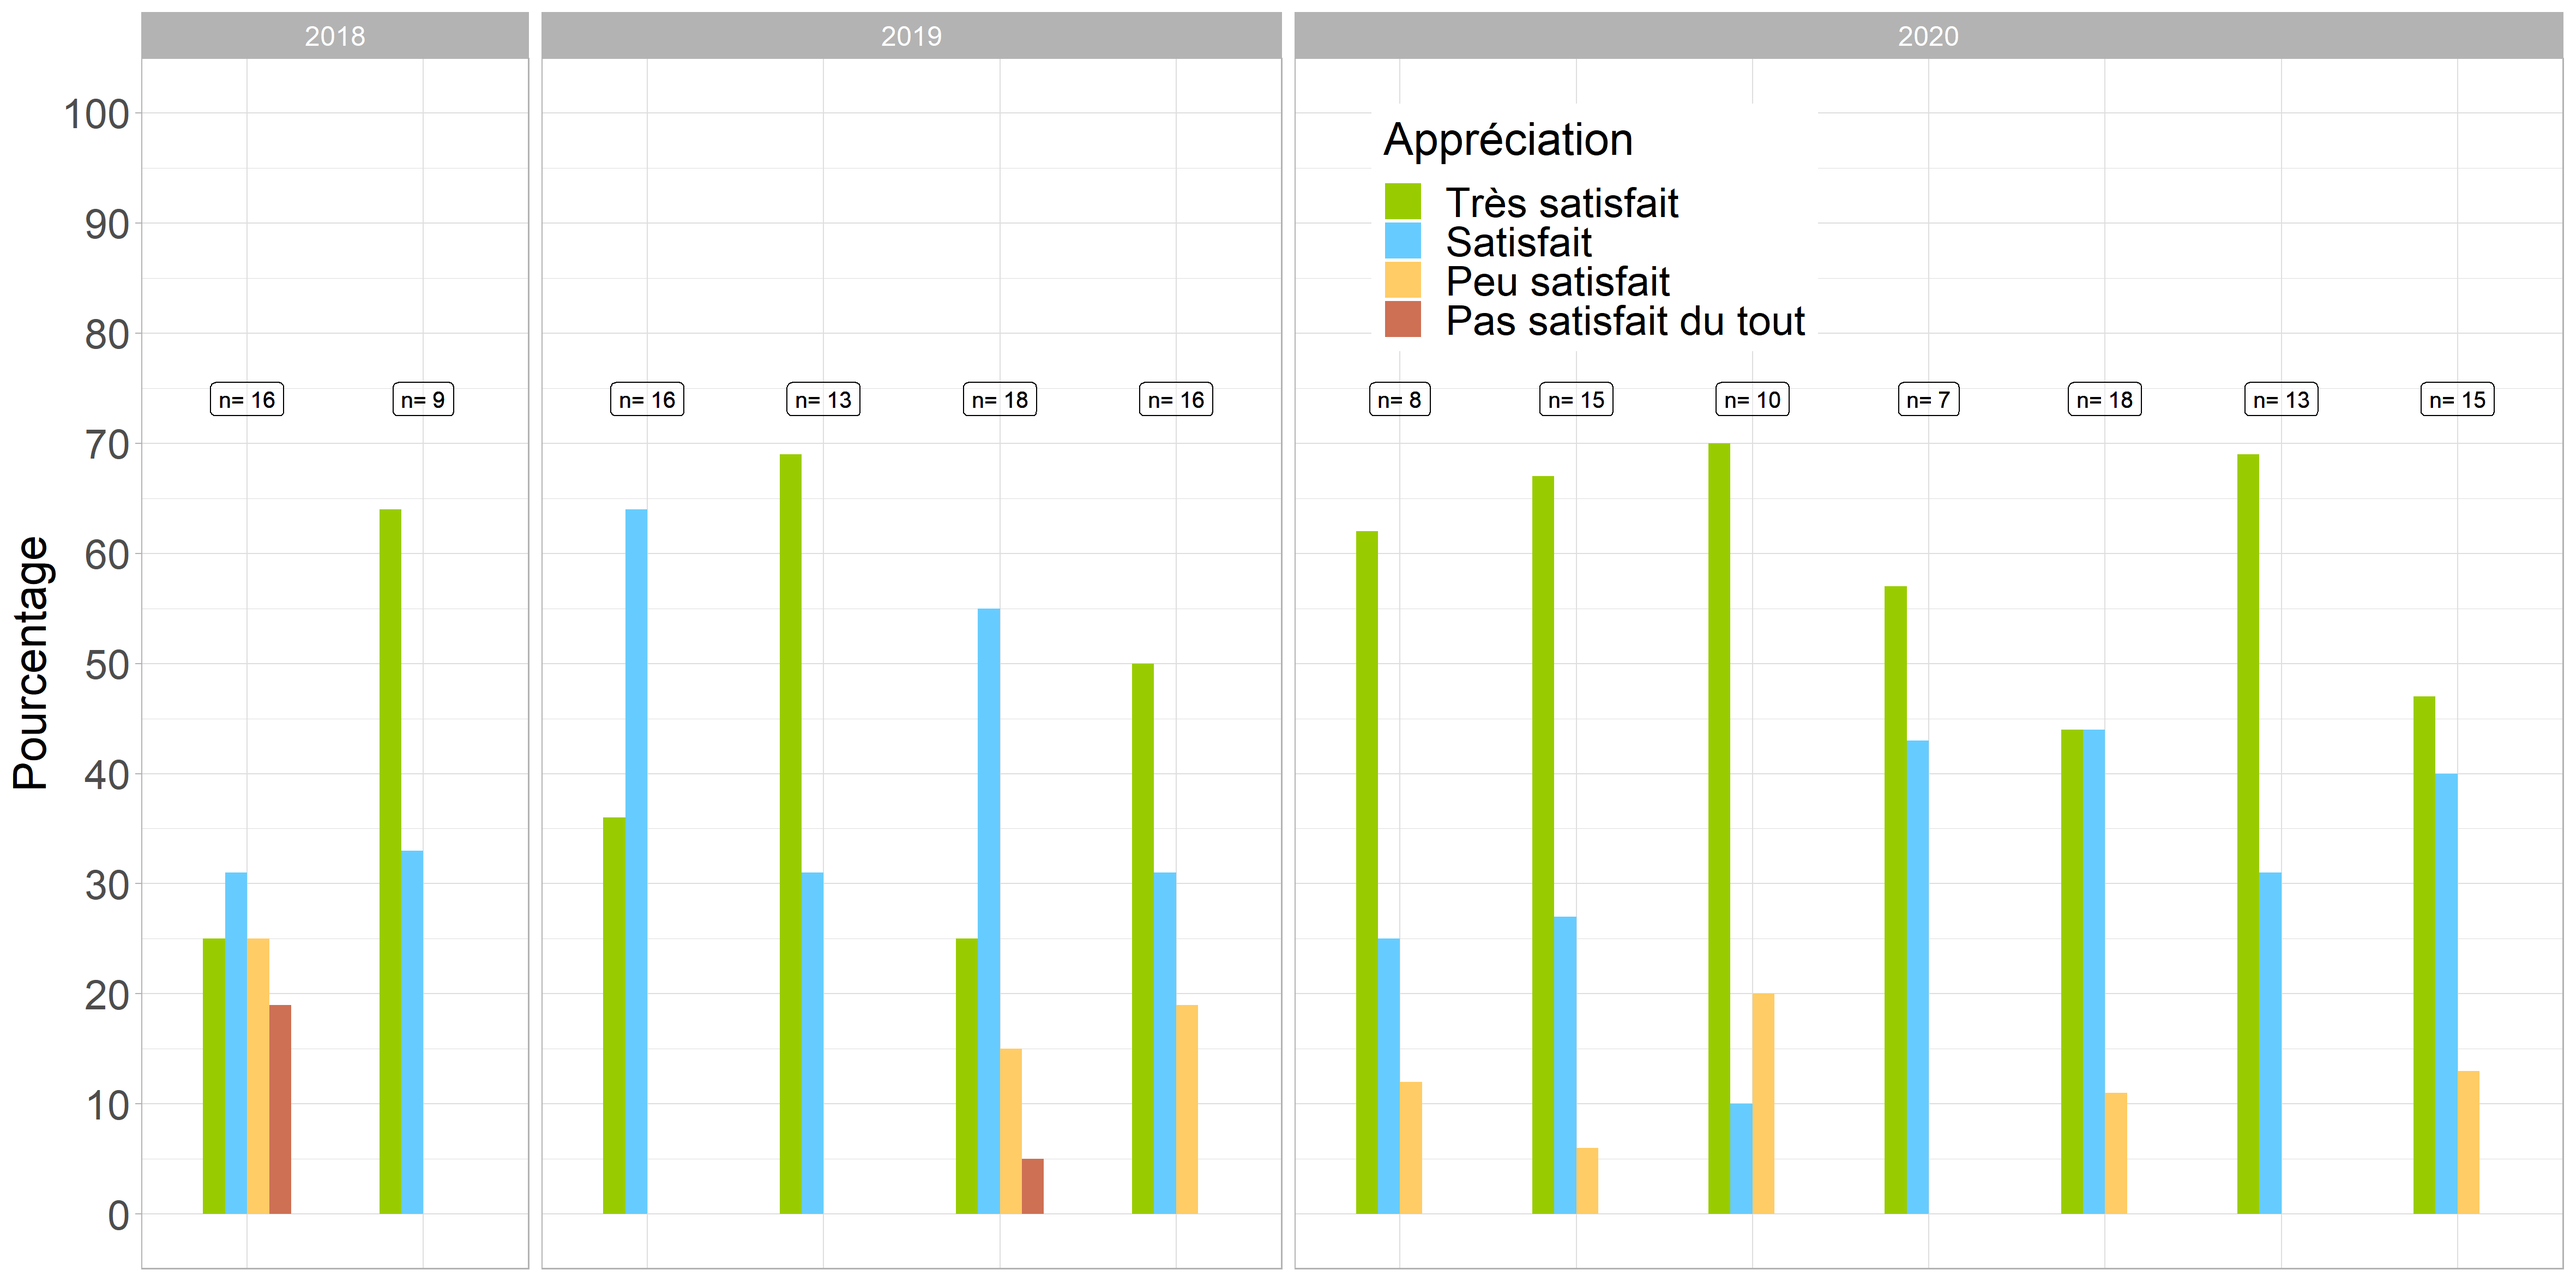
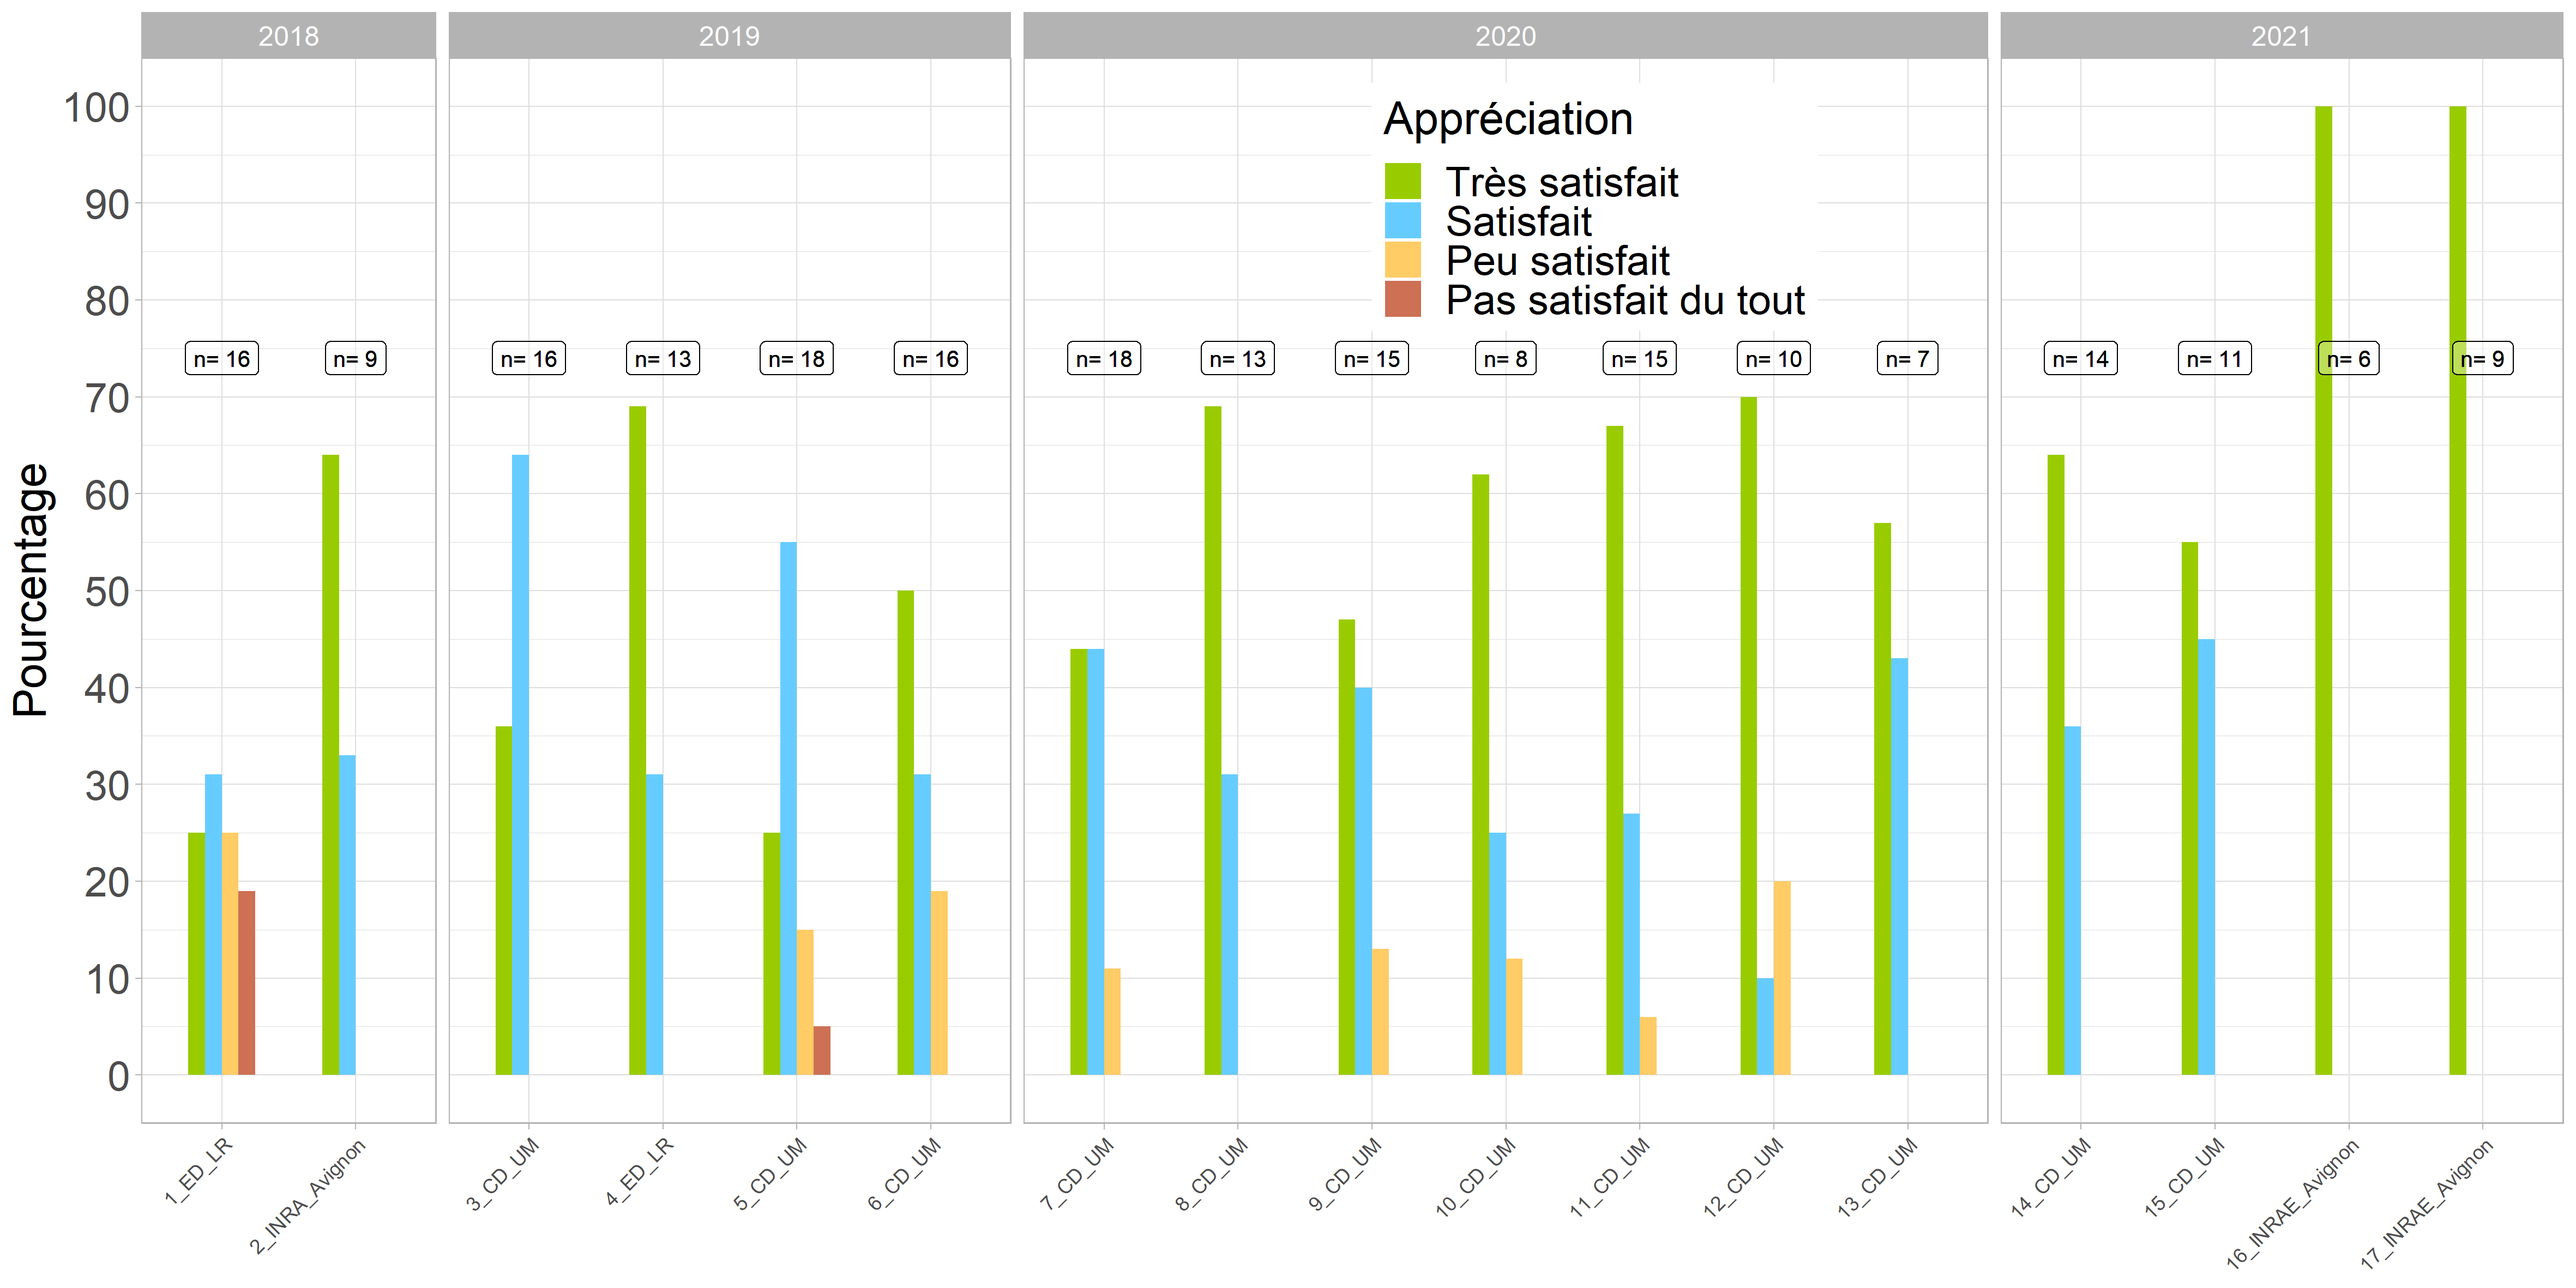
autoévaluation figure

diff --git a/docs/aspects-pratiques.html b/docs/aspects-pratiques.html
@@ -24,7 +24,7 @@
 <meta name="author" content="Oswaldo Forey" />
 
 
-<meta name="date" content="2021-04-20" />
+<meta name="date" content="2021-04-21" />
 
   <meta name="viewport" content="width=device-width, initial-scale=1" />
   <meta name="apple-mobile-web-app-capable" content="yes" />
@@ -33,7 +33,7 @@
   
 <link rel="prev" href="programme-de-la-formation.html"/>
 
-<script src="libs/header-attrs-2.6/header-attrs.js"></script>
+<script src="libs/header-attrs-2.7/header-attrs.js"></script>
 <script src="libs/jquery-2.2.3/jquery.min.js"></script>
 <link href="libs/gitbook-2.6.7/css/style.css" rel="stylesheet" />
 <link href="libs/gitbook-2.6.7/css/plugin-table.css" rel="stylesheet" />
@@ -93,7 +93,11 @@
 <ul>
 <li class="chapter" data-level="4.1" data-path="aspects-pratiques.html"><a href="aspects-pratiques.html#modalités-denseignement"><i class="fa fa-check"></i><b>4.1</b> Modalités d’enseignement</a></li>
 <li class="chapter" data-level="4.2" data-path="aspects-pratiques.html"><a href="aspects-pratiques.html#qui-suis-je"><i class="fa fa-check"></i><b>4.2</b> Qui suis-je?</a></li>
-<li class="chapter" data-level="4.3" data-path="aspects-pratiques.html"><a href="aspects-pratiques.html#résultats-des-sessions-précédentes"><i class="fa fa-check"></i><b>4.3</b> Résultats des sessions précédentes</a></li>
+<li class="chapter" data-level="4.3" data-path="aspects-pratiques.html"><a href="aspects-pratiques.html#evaluations-des-sessions-précédentes"><i class="fa fa-check"></i><b>4.3</b> Evaluations des sessions précédentes</a>
+<ul>
+<li class="chapter" data-level="4.3.1" data-path="aspects-pratiques.html"><a href="aspects-pratiques.html#satisfaction-des-participant-e-s"><i class="fa fa-check"></i><b>4.3.1</b> Satisfaction des participant-e-s</a></li>
+<li class="chapter" data-level="4.3.2" data-path="aspects-pratiques.html"><a href="aspects-pratiques.html#atteinte-des-objectifs"><i class="fa fa-check"></i><b>4.3.2</b> Atteinte des objectifs</a></li>
+</ul></li>
 <li class="chapter" data-level="4.4" data-path="aspects-pratiques.html"><a href="aspects-pratiques.html#coût-de-la-formation"><i class="fa fa-check"></i><b>4.4</b> Coût de la formation</a></li>
 <li class="chapter" data-level="4.5" data-path="aspects-pratiques.html"><a href="aspects-pratiques.html#contacts"><i class="fa fa-check"></i><b>4.5</b> Contacts</a></li>
 </ul></li>
@@ -183,17 +187,37 @@ d’agroécosystèmes.</p>
 <p><br></p>
 <p><img src="img/le_formateur_high_res.png" /> <br></p>
 </div>
-<div id="résultats-des-sessions-précédentes" class="section level2" number="4.3">
-<h2><span class="header-section-number">4.3</span> Résultats des sessions précédentes</h2>
+<div id="evaluations-des-sessions-précédentes" class="section level2" number="4.3">
+<h2><span class="header-section-number">4.3</span> Evaluations des sessions précédentes</h2>
+<div id="satisfaction-des-participant-e-s" class="section level3" number="4.3.1">
+<h3><span class="header-section-number">4.3.1</span> Satisfaction des participant-e-s</h3>
 <div align="justify">
 <p>La figure 6 montre les résultats des enquêtes de satisfaction issus des
-13 sessions pour lesquelles l’évaluation de la formation a été conduite.
-L’évaluation de la formation est maintenant systématique.</p>
+17 sessions pour lesquelles l’évaluation de la formation a été conduite
+(quelques sessions n’avaient été évaluées les deux premières années;
+l’évaluation de la formation est maintenant systématique).</p>
 </div>
-<p><img src="img/appreciations_evaluation.png" /> Figure 6: Appréciations de la
-formation par les participant-e-s pour les 13 évaluations en ma
+<p><img src="img/appreciations_evaluation.png" alt="Figure 6: Résultats des évaluations de la satisfaction globale des participant-e-s. ED_LR= école doctorale languedoc-Roussillon, CD_UM=collège doctoral de l’Université de Montpellier." /> Figure 6: Appréciations
+de la formation par les participant-e-s pour les 13 évaluations en ma
 possession par année. Les boites au dessus de chaque session indiquent
 le nombre de personnes ayant répondu à l’enquête.</p>
+</div>
+<div id="atteinte-des-objectifs" class="section level3" number="4.3.2">
+<h3><span class="header-section-number">4.3.2</span> Atteinte des objectifs</h3>
+<p>La figure 7 montre les résultats des participant-e-s aux quiz et
+exercices de chaque séquence. Ces résultats sont issus de
+l’autoévaluation par les participant-e-s en fin de deuxième journée et
+indiquent évaluent l’efficacité de la mémorisation (quiz) et les
+capacités à remobiliser les connaissances dans un autre contexte
+(exercices). L’absence de notes dans les exercices 7.2 et 8 (le 7.1
+étant le 7) indique que la durée de deux jours de formation est un peu
+courte, et qu’un troisième jour est nécessaire…</p>
+<div class="figure">
+<img src="img/graphique_autoevaluation.png" alt="" />
+<p class="caption">Figure 7: Résultats des participant-e-s aux quiz et exercices de
+chaque séquence.</p>
+</div>
+</div>
 </div>
 <div id="coût-de-la-formation" class="section level2" number="4.4">
 <h2><span class="header-section-number">4.4</span> Coût de la formation</h2>

diff --git a/docs/index.html b/docs/index.html
@@ -24,7 +24,7 @@
 <meta name="author" content="Oswaldo Forey" />
 
 
-<meta name="date" content="2021-04-20" />
+<meta name="date" content="2021-04-21" />
 
   <meta name="viewport" content="width=device-width, initial-scale=1" />
   <meta name="apple-mobile-web-app-capable" content="yes" />
@@ -33,7 +33,7 @@
   
 
 <link rel="next" href="méthode-pédagogique-et-architecture-de-la-formation.html"/>
-<script src="libs/header-attrs-2.6/header-attrs.js"></script>
+<script src="libs/header-attrs-2.7/header-attrs.js"></script>
 <script src="libs/jquery-2.2.3/jquery.min.js"></script>
 <link href="libs/gitbook-2.6.7/css/style.css" rel="stylesheet" />
 <link href="libs/gitbook-2.6.7/css/plugin-table.css" rel="stylesheet" />
@@ -93,7 +93,11 @@
 <ul>
 <li class="chapter" data-level="4.1" data-path="aspects-pratiques.html"><a href="aspects-pratiques.html#modalités-denseignement"><i class="fa fa-check"></i><b>4.1</b> Modalités d’enseignement</a></li>
 <li class="chapter" data-level="4.2" data-path="aspects-pratiques.html"><a href="aspects-pratiques.html#qui-suis-je"><i class="fa fa-check"></i><b>4.2</b> Qui suis-je?</a></li>
-<li class="chapter" data-level="4.3" data-path="aspects-pratiques.html"><a href="aspects-pratiques.html#résultats-des-sessions-précédentes"><i class="fa fa-check"></i><b>4.3</b> Résultats des sessions précédentes</a></li>
+<li class="chapter" data-level="4.3" data-path="aspects-pratiques.html"><a href="aspects-pratiques.html#evaluations-des-sessions-précédentes"><i class="fa fa-check"></i><b>4.3</b> Evaluations des sessions précédentes</a>
+<ul>
+<li class="chapter" data-level="4.3.1" data-path="aspects-pratiques.html"><a href="aspects-pratiques.html#satisfaction-des-participant-e-s"><i class="fa fa-check"></i><b>4.3.1</b> Satisfaction des participant-e-s</a></li>
+<li class="chapter" data-level="4.3.2" data-path="aspects-pratiques.html"><a href="aspects-pratiques.html#atteinte-des-objectifs"><i class="fa fa-check"></i><b>4.3.2</b> Atteinte des objectifs</a></li>
+</ul></li>
 <li class="chapter" data-level="4.4" data-path="aspects-pratiques.html"><a href="aspects-pratiques.html#coût-de-la-formation"><i class="fa fa-check"></i><b>4.4</b> Coût de la formation</a></li>
 <li class="chapter" data-level="4.5" data-path="aspects-pratiques.html"><a href="aspects-pratiques.html#contacts"><i class="fa fa-check"></i><b>4.5</b> Contacts</a></li>
 </ul></li>
@@ -123,7 +127,7 @@ pour les Sciences de la Vie</div></a>
 pour les Sciences de la Vie</div></h1>
 <h2 class="subtitle"><em>Version 2.3</em></h2>
 <p class="author"><em>Oswaldo Forey</em></p>
-<p class="date"><em>2021-04-20</em></p>
+<p class="date"><em>2021-04-21</em></p>
 </div>
 <div id="objectifs-de-la-formation" class="section level1" number="1">
 <h1><span class="header-section-number">1</span> Objectifs de la formation</h1>

diff --git a/docs/programme-de-la-formation.html b/docs/programme-de-la-formation.html
@@ -24,7 +24,7 @@
 <meta name="author" content="Oswaldo Forey" />
 
 
-<meta name="date" content="2021-04-20" />
+<meta name="date" content="2021-04-21" />
 
   <meta name="viewport" content="width=device-width, initial-scale=1" />
   <meta name="apple-mobile-web-app-capable" content="yes" />
@@ -33,7 +33,7 @@
   
 <link rel="prev" href="méthode-pédagogique-et-architecture-de-la-formation.html"/>
 <link rel="next" href="aspects-pratiques.html"/>
-<script src="libs/header-attrs-2.6/header-attrs.js"></script>
+<script src="libs/header-attrs-2.7/header-attrs.js"></script>
 <script src="libs/jquery-2.2.3/jquery.min.js"></script>
 <link href="libs/gitbook-2.6.7/css/style.css" rel="stylesheet" />
 <link href="libs/gitbook-2.6.7/css/plugin-table.css" rel="stylesheet" />
@@ -93,7 +93,11 @@
 <ul>
 <li class="chapter" data-level="4.1" data-path="aspects-pratiques.html"><a href="aspects-pratiques.html#modalités-denseignement"><i class="fa fa-check"></i><b>4.1</b> Modalités d’enseignement</a></li>
 <li class="chapter" data-level="4.2" data-path="aspects-pratiques.html"><a href="aspects-pratiques.html#qui-suis-je"><i class="fa fa-check"></i><b>4.2</b> Qui suis-je?</a></li>
-<li class="chapter" data-level="4.3" data-path="aspects-pratiques.html"><a href="aspects-pratiques.html#résultats-des-sessions-précédentes"><i class="fa fa-check"></i><b>4.3</b> Résultats des sessions précédentes</a></li>
+<li class="chapter" data-level="4.3" data-path="aspects-pratiques.html"><a href="aspects-pratiques.html#evaluations-des-sessions-précédentes"><i class="fa fa-check"></i><b>4.3</b> Evaluations des sessions précédentes</a>
+<ul>
+<li class="chapter" data-level="4.3.1" data-path="aspects-pratiques.html"><a href="aspects-pratiques.html#satisfaction-des-participant-e-s"><i class="fa fa-check"></i><b>4.3.1</b> Satisfaction des participant-e-s</a></li>
+<li class="chapter" data-level="4.3.2" data-path="aspects-pratiques.html"><a href="aspects-pratiques.html#atteinte-des-objectifs"><i class="fa fa-check"></i><b>4.3.2</b> Atteinte des objectifs</a></li>
+</ul></li>
 <li class="chapter" data-level="4.4" data-path="aspects-pratiques.html"><a href="aspects-pratiques.html#coût-de-la-formation"><i class="fa fa-check"></i><b>4.4</b> Coût de la formation</a></li>
 <li class="chapter" data-level="4.5" data-path="aspects-pratiques.html"><a href="aspects-pratiques.html#contacts"><i class="fa fa-check"></i><b>4.5</b> Contacts</a></li>
 </ul></li>

diff --git a/docs/méthode-pédagogique-et-architecture-de-la-formation.html b/docs/méthode-pédagogique-et-architecture-de-la-formation.html
@@ -24,7 +24,7 @@
 <meta name="author" content="Oswaldo Forey" />
 
 
-<meta name="date" content="2021-04-20" />
+<meta name="date" content="2021-04-21" />
 
   <meta name="viewport" content="width=device-width, initial-scale=1" />
   <meta name="apple-mobile-web-app-capable" content="yes" />
@@ -33,7 +33,7 @@
   
 <link rel="prev" href="index.html"/>
 <link rel="next" href="programme-de-la-formation.html"/>
-<script src="libs/header-attrs-2.6/header-attrs.js"></script>
+<script src="libs/header-attrs-2.7/header-attrs.js"></script>
 <script src="libs/jquery-2.2.3/jquery.min.js"></script>
 <link href="libs/gitbook-2.6.7/css/style.css" rel="stylesheet" />
 <link href="libs/gitbook-2.6.7/css/plugin-table.css" rel="stylesheet" />
@@ -93,7 +93,11 @@
 <ul>
 <li class="chapter" data-level="4.1" data-path="aspects-pratiques.html"><a href="aspects-pratiques.html#modalités-denseignement"><i class="fa fa-check"></i><b>4.1</b> Modalités d’enseignement</a></li>
 <li class="chapter" data-level="4.2" data-path="aspects-pratiques.html"><a href="aspects-pratiques.html#qui-suis-je"><i class="fa fa-check"></i><b>4.2</b> Qui suis-je?</a></li>
-<li class="chapter" data-level="4.3" data-path="aspects-pratiques.html"><a href="aspects-pratiques.html#résultats-des-sessions-précédentes"><i class="fa fa-check"></i><b>4.3</b> Résultats des sessions précédentes</a></li>
+<li class="chapter" data-level="4.3" data-path="aspects-pratiques.html"><a href="aspects-pratiques.html#evaluations-des-sessions-précédentes"><i class="fa fa-check"></i><b>4.3</b> Evaluations des sessions précédentes</a>
+<ul>
+<li class="chapter" data-level="4.3.1" data-path="aspects-pratiques.html"><a href="aspects-pratiques.html#satisfaction-des-participant-e-s"><i class="fa fa-check"></i><b>4.3.1</b> Satisfaction des participant-e-s</a></li>
+<li class="chapter" data-level="4.3.2" data-path="aspects-pratiques.html"><a href="aspects-pratiques.html#atteinte-des-objectifs"><i class="fa fa-check"></i><b>4.3.2</b> Atteinte des objectifs</a></li>
+</ul></li>
 <li class="chapter" data-level="4.4" data-path="aspects-pratiques.html"><a href="aspects-pratiques.html#coût-de-la-formation"><i class="fa fa-check"></i><b>4.4</b> Coût de la formation</a></li>
 <li class="chapter" data-level="4.5" data-path="aspects-pratiques.html"><a href="aspects-pratiques.html#contacts"><i class="fa fa-check"></i><b>4.5</b> Contacts</a></li>
 </ul></li>
